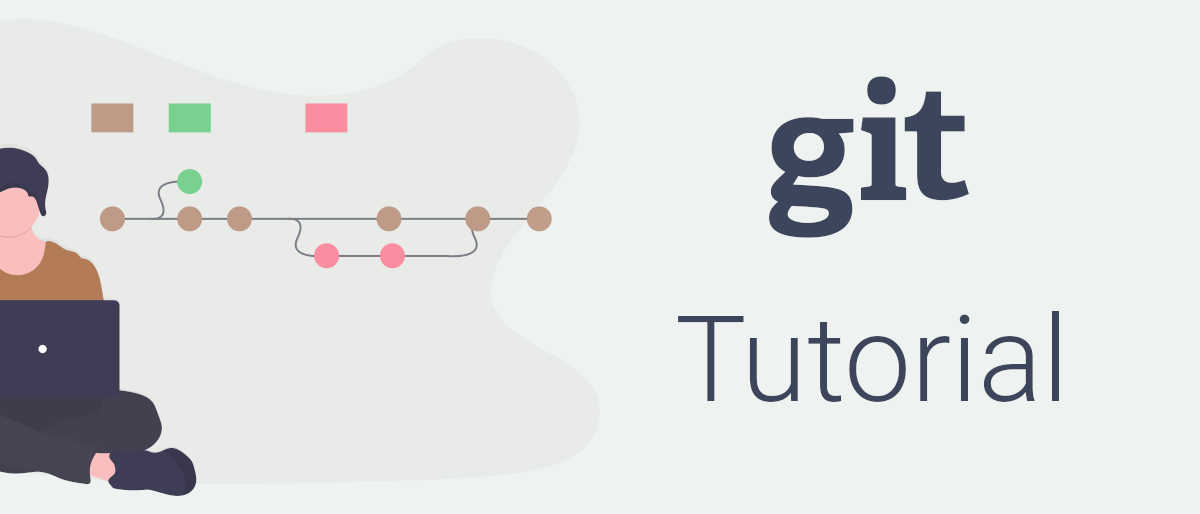
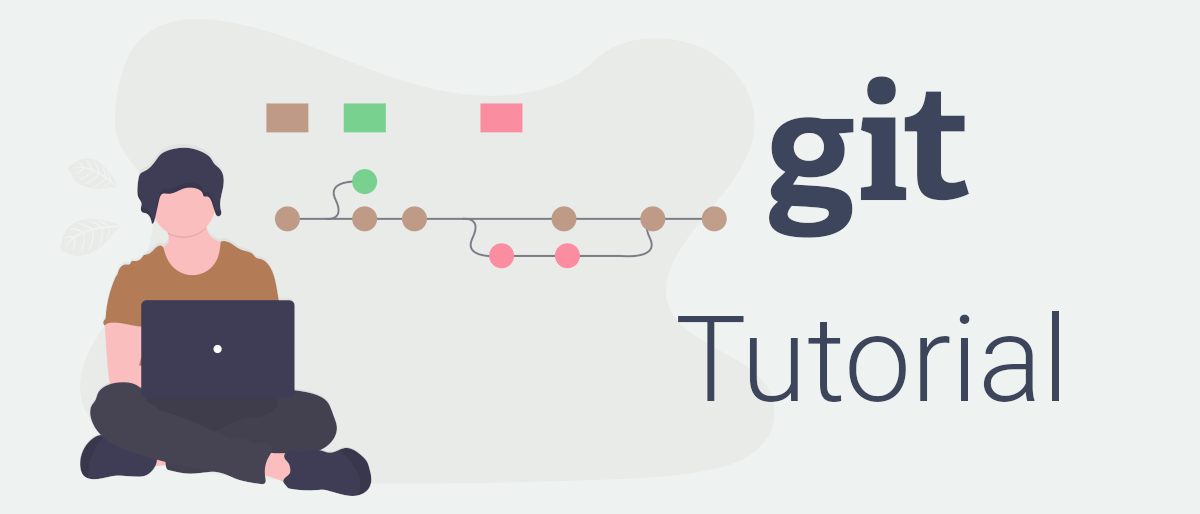
Changed git tutorial image and template

Changed region(s): [[0.0, 0.1868, 0.6167, 0.965], [0.2158, 0.1868, 0.3392, 0.2802], [0.4008, 0.1868, 0.4625, 0.2802]]

diff --git a/src/tutorials/git-version-control-system/README.md b/src/tutorials/git-version-control-system/README.md
@@ -3,7 +3,6 @@ title: "Version Control with Git"
 description: In this tutorial we will learn to use and love one of the most influencial workflow tools, which is basically used by every developer I've met so far.
 lang: en
 image: /images/git.png
-video: qDreU1-4CYo
 category: Basics
 tags: [Git, Version Control System (VCS), Source-Control Management (SCM)]
 ---
